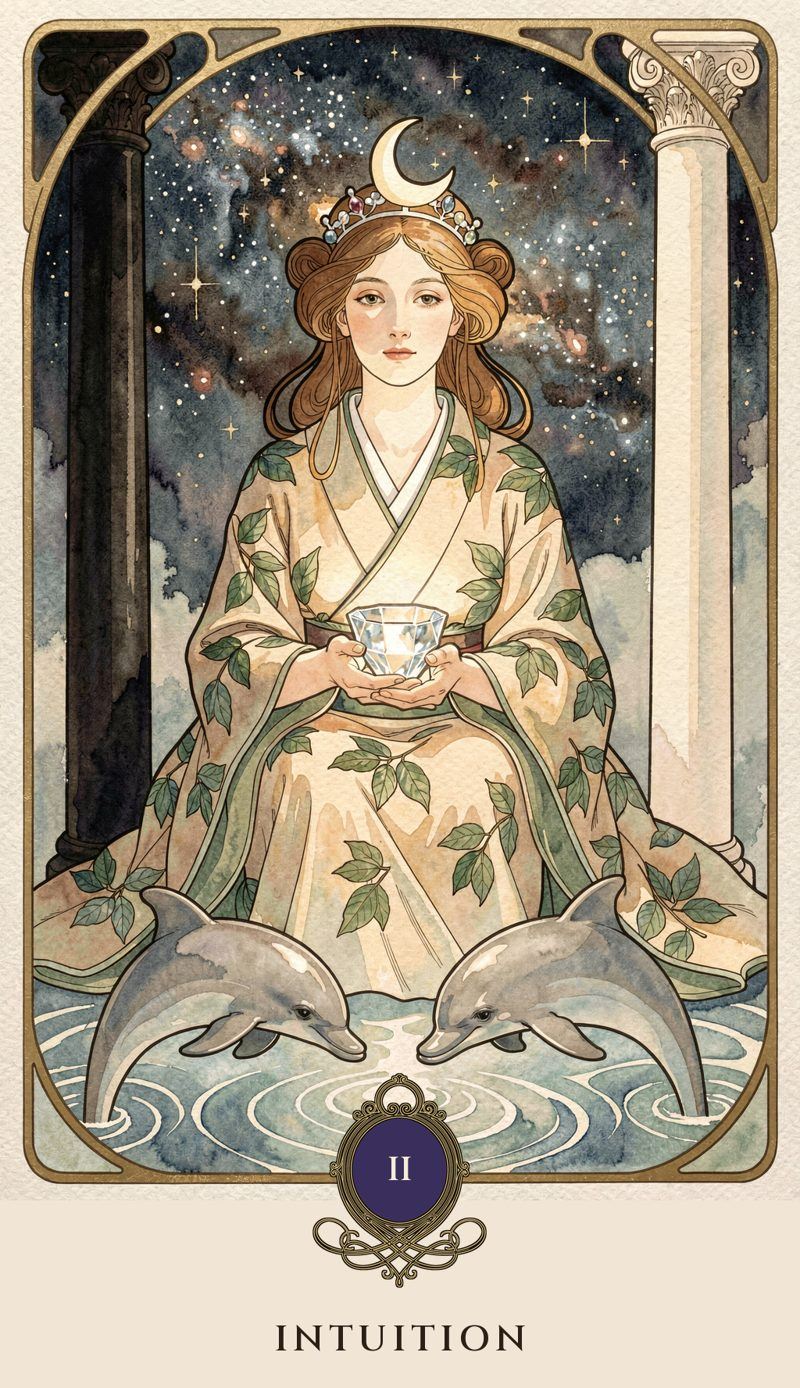
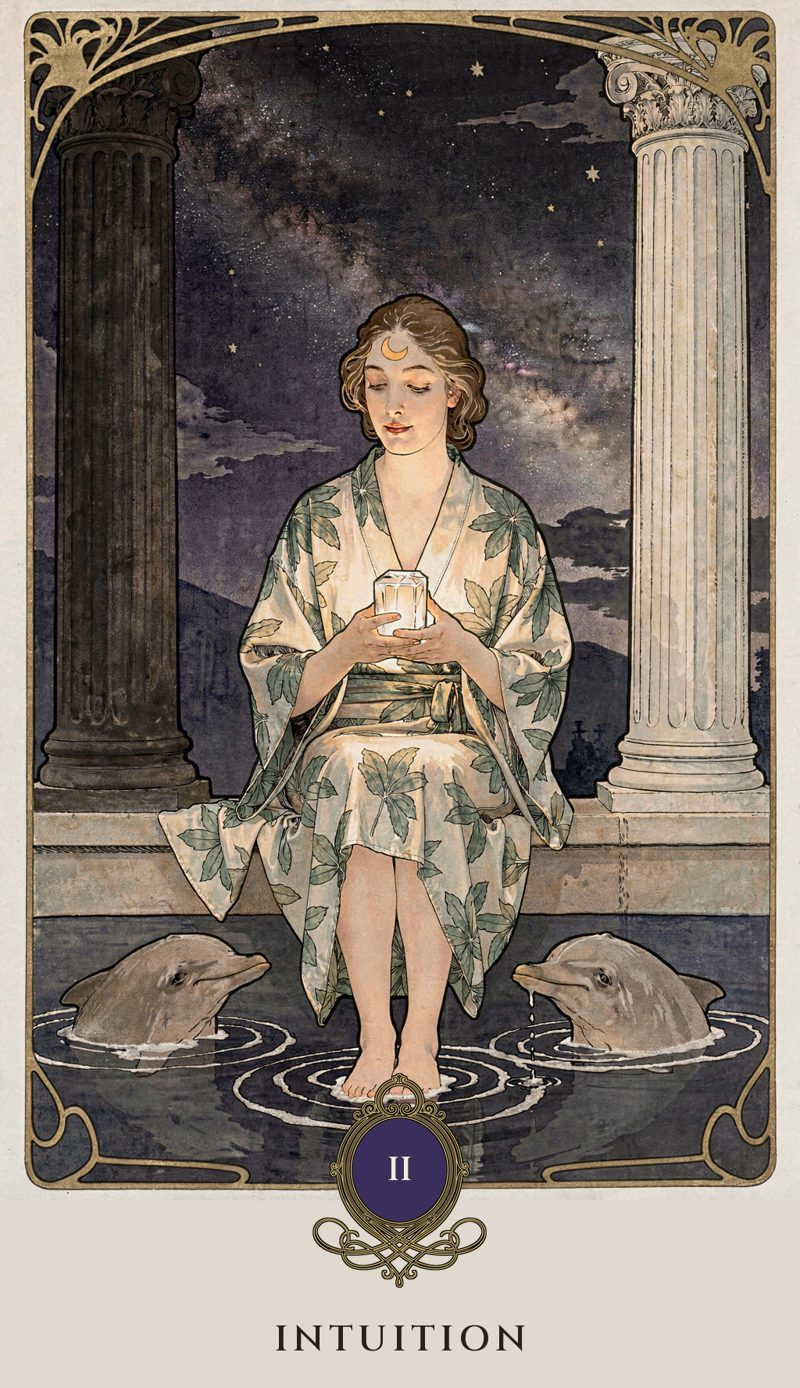
II · Intuition : refonte complète (deux têtes de dauphins, jambes dans l'eau, robe imprimée, Voie lactée unique, style plat)
- nouveau master v23c (graine 780362) ; l'ancien est archivé
- l'ancien prompt faisait danser deux dauphins dans l'eau : remplacés par deux
  têtes qui sortent de la surface, une de chaque côté des jambes, avec leurs ondes
- jambes dans l'eau et jamais croisées ; deux colonnes énormes mais entières
- le bloc de style demandait du « modelling » (d'où l'effet hyperréaliste) : inversé
- lecture réécrite (274 mots, 3 temps) ; SYMBOLES_REQUIS[2] : voie lactée + lumière
- cartouche, 02.jpg et mini/02.webp régénérés ; 840 tests verts

diff --git a/tests/test_lectures.py b/tests/test_lectures.py
@@ -26,8 +26,8 @@ SYMBOLES_REQUIS = {
         "arc-en-ciel", "rivière", "soleil", "brume", "montagne"],
     1: ["eau", "poisson", "oiseau", "fleur", "racine", "étoil", "voile",
         "fils d'or"],
-    2: ["colonne", "galax", "croissant", "couronne", "feuille", "cristal",
-        "dauphin", "eau"],
+    2: ["colonne", "voie lactée", "croissant", "feuille", "cristal",
+        "dauphin", "eau", "lumière"],
     3: ["ruban", "mains", "robe", "motif", "bassin", "feu", "eau"],
     4: ["temple", "colonnes", "aigle", "rivière", "eau", "montagnes",
         "plaines", "ciel"],
